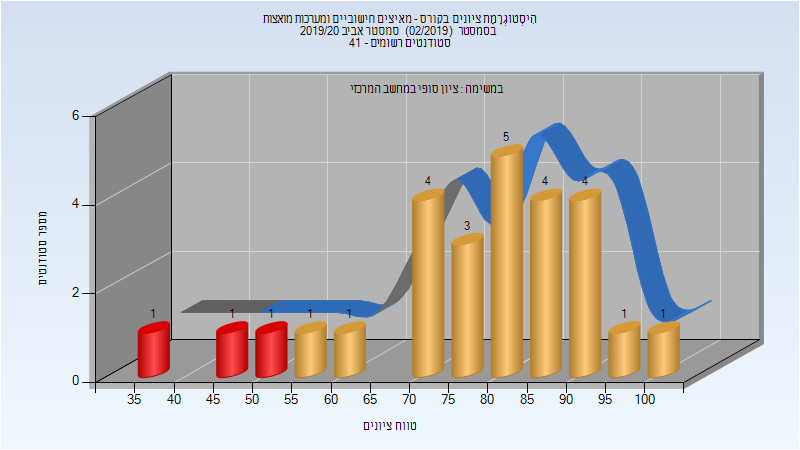
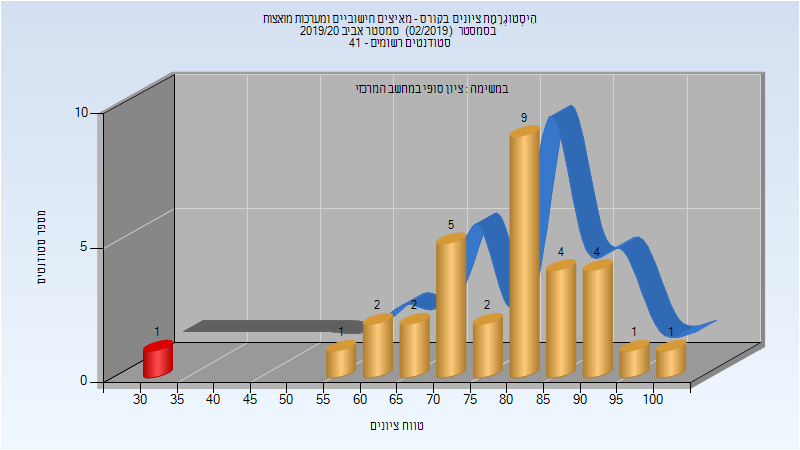
Deploy michael-maltsev/technion-histograms to github.com/michael-maltsev/technion-histograms.git:gh-pages

diff --git a/046278/index.html b/046278/index.html
@@ -209,13 +209,13 @@
 </thead>
 <tbody>
 <tr>
-<td>27</td>
-<td>24/3</td>
-<td>89</td>
-<td>39</td>
+<td>32</td>
+<td>31/1</td>
+<td>97</td>
+<td>34</td>
 <td>100</td>
-<td>77.111</td>
-<td>81</td>
+<td>78.312</td>
+<td>82.5</td>
 </tr>
 </tbody>
 </table>

diff --git a/236340/index.html b/236340/index.html
@@ -52,13 +52,13 @@
 </thead>
 <tbody>
 <tr>
-<td>13</td>
-<td>13/0</td>
+<td>15</td>
+<td>15/0</td>
 <td>100</td>
 <td>90</td>
 <td>100</td>
-<td>97.231</td>
-<td>99</td>
+<td>96.867</td>
+<td>97</td>
 </tr>
 </tbody>
 </table>

diff --git a/324294/index.html b/324294/index.html
@@ -378,12 +378,12 @@
 </thead>
 <tbody>
 <tr>
-<td>69</td>
-<td>69/0</td>
+<td>70</td>
+<td>70/0</td>
 <td>100</td>
 <td>65</td>
 <td>100</td>
-<td>90.261</td>
+<td>90.271</td>
 <td>92</td>
 </tr>
 </tbody>

diff --git a/044198/index.html b/044198/index.html
@@ -1495,11 +1495,11 @@
 <tbody>
 <tr>
 <td>139</td>
-<td>126/13</td>
+<td>127/12</td>
 <td>91</td>
 <td>31</td>
 <td>100</td>
-<td>74.763</td>
+<td>74.971</td>
 <td>77</td>
 </tr>
 </tbody>

diff --git a/044198/README.md b/044198/README.md
@@ -464,5 +464,5 @@
 
 | סטודנטים | עברו/נכשלו | אחוז עוברים | ציון מינימלי | ציון מקסימלי | ממוצע | חציון |
 | ---- | ---- | ---- | ---- | ---- | ---- | ---- |
-| 139 | 126/13 | 91 | 31 | 100 | 74.763 | 77 |
+| 139 | 127/12 | 91 | 31 | 100 | 74.971 | 77 |
 

diff --git a/324294/README.md b/324294/README.md
@@ -116,5 +116,5 @@
 
 | סטודנטים | עברו/נכשלו | אחוז עוברים | ציון מינימלי | ציון מקסימלי | ממוצע | חציון |
 | ---- | ---- | ---- | ---- | ---- | ---- | ---- |
-| 69 | 69/0 | 100 | 65 | 100 | 90.261 | 92 |
+| 70 | 70/0 | 100 | 65 | 100 | 90.271 | 92 |
 

diff --git a/046278/README.md b/046278/README.md
@@ -61,5 +61,5 @@
 
 | סטודנטים | עברו/נכשלו | אחוז עוברים | ציון מינימלי | ציון מקסימלי | ממוצע | חציון |
 | ---- | ---- | ---- | ---- | ---- | ---- | ---- |
-| 27 | 24/3 | 89 | 39 | 100 | 77.111 | 81 |
+| 32 | 31/1 | 97 | 34 | 100 | 78.312 | 82.5 |
 

diff --git a/236340/README.md b/236340/README.md
@@ -12,5 +12,5 @@
 
 | סטודנטים | עברו/נכשלו | אחוז עוברים | ציון מינימלי | ציון מקסימלי | ממוצע | חציון |
 | ---- | ---- | ---- | ---- | ---- | ---- | ---- |
-| 13 | 13/0 | 100 | 90 | 100 | 97.231 | 99 |
+| 15 | 15/0 | 100 | 90 | 100 | 96.867 | 97 |
 
